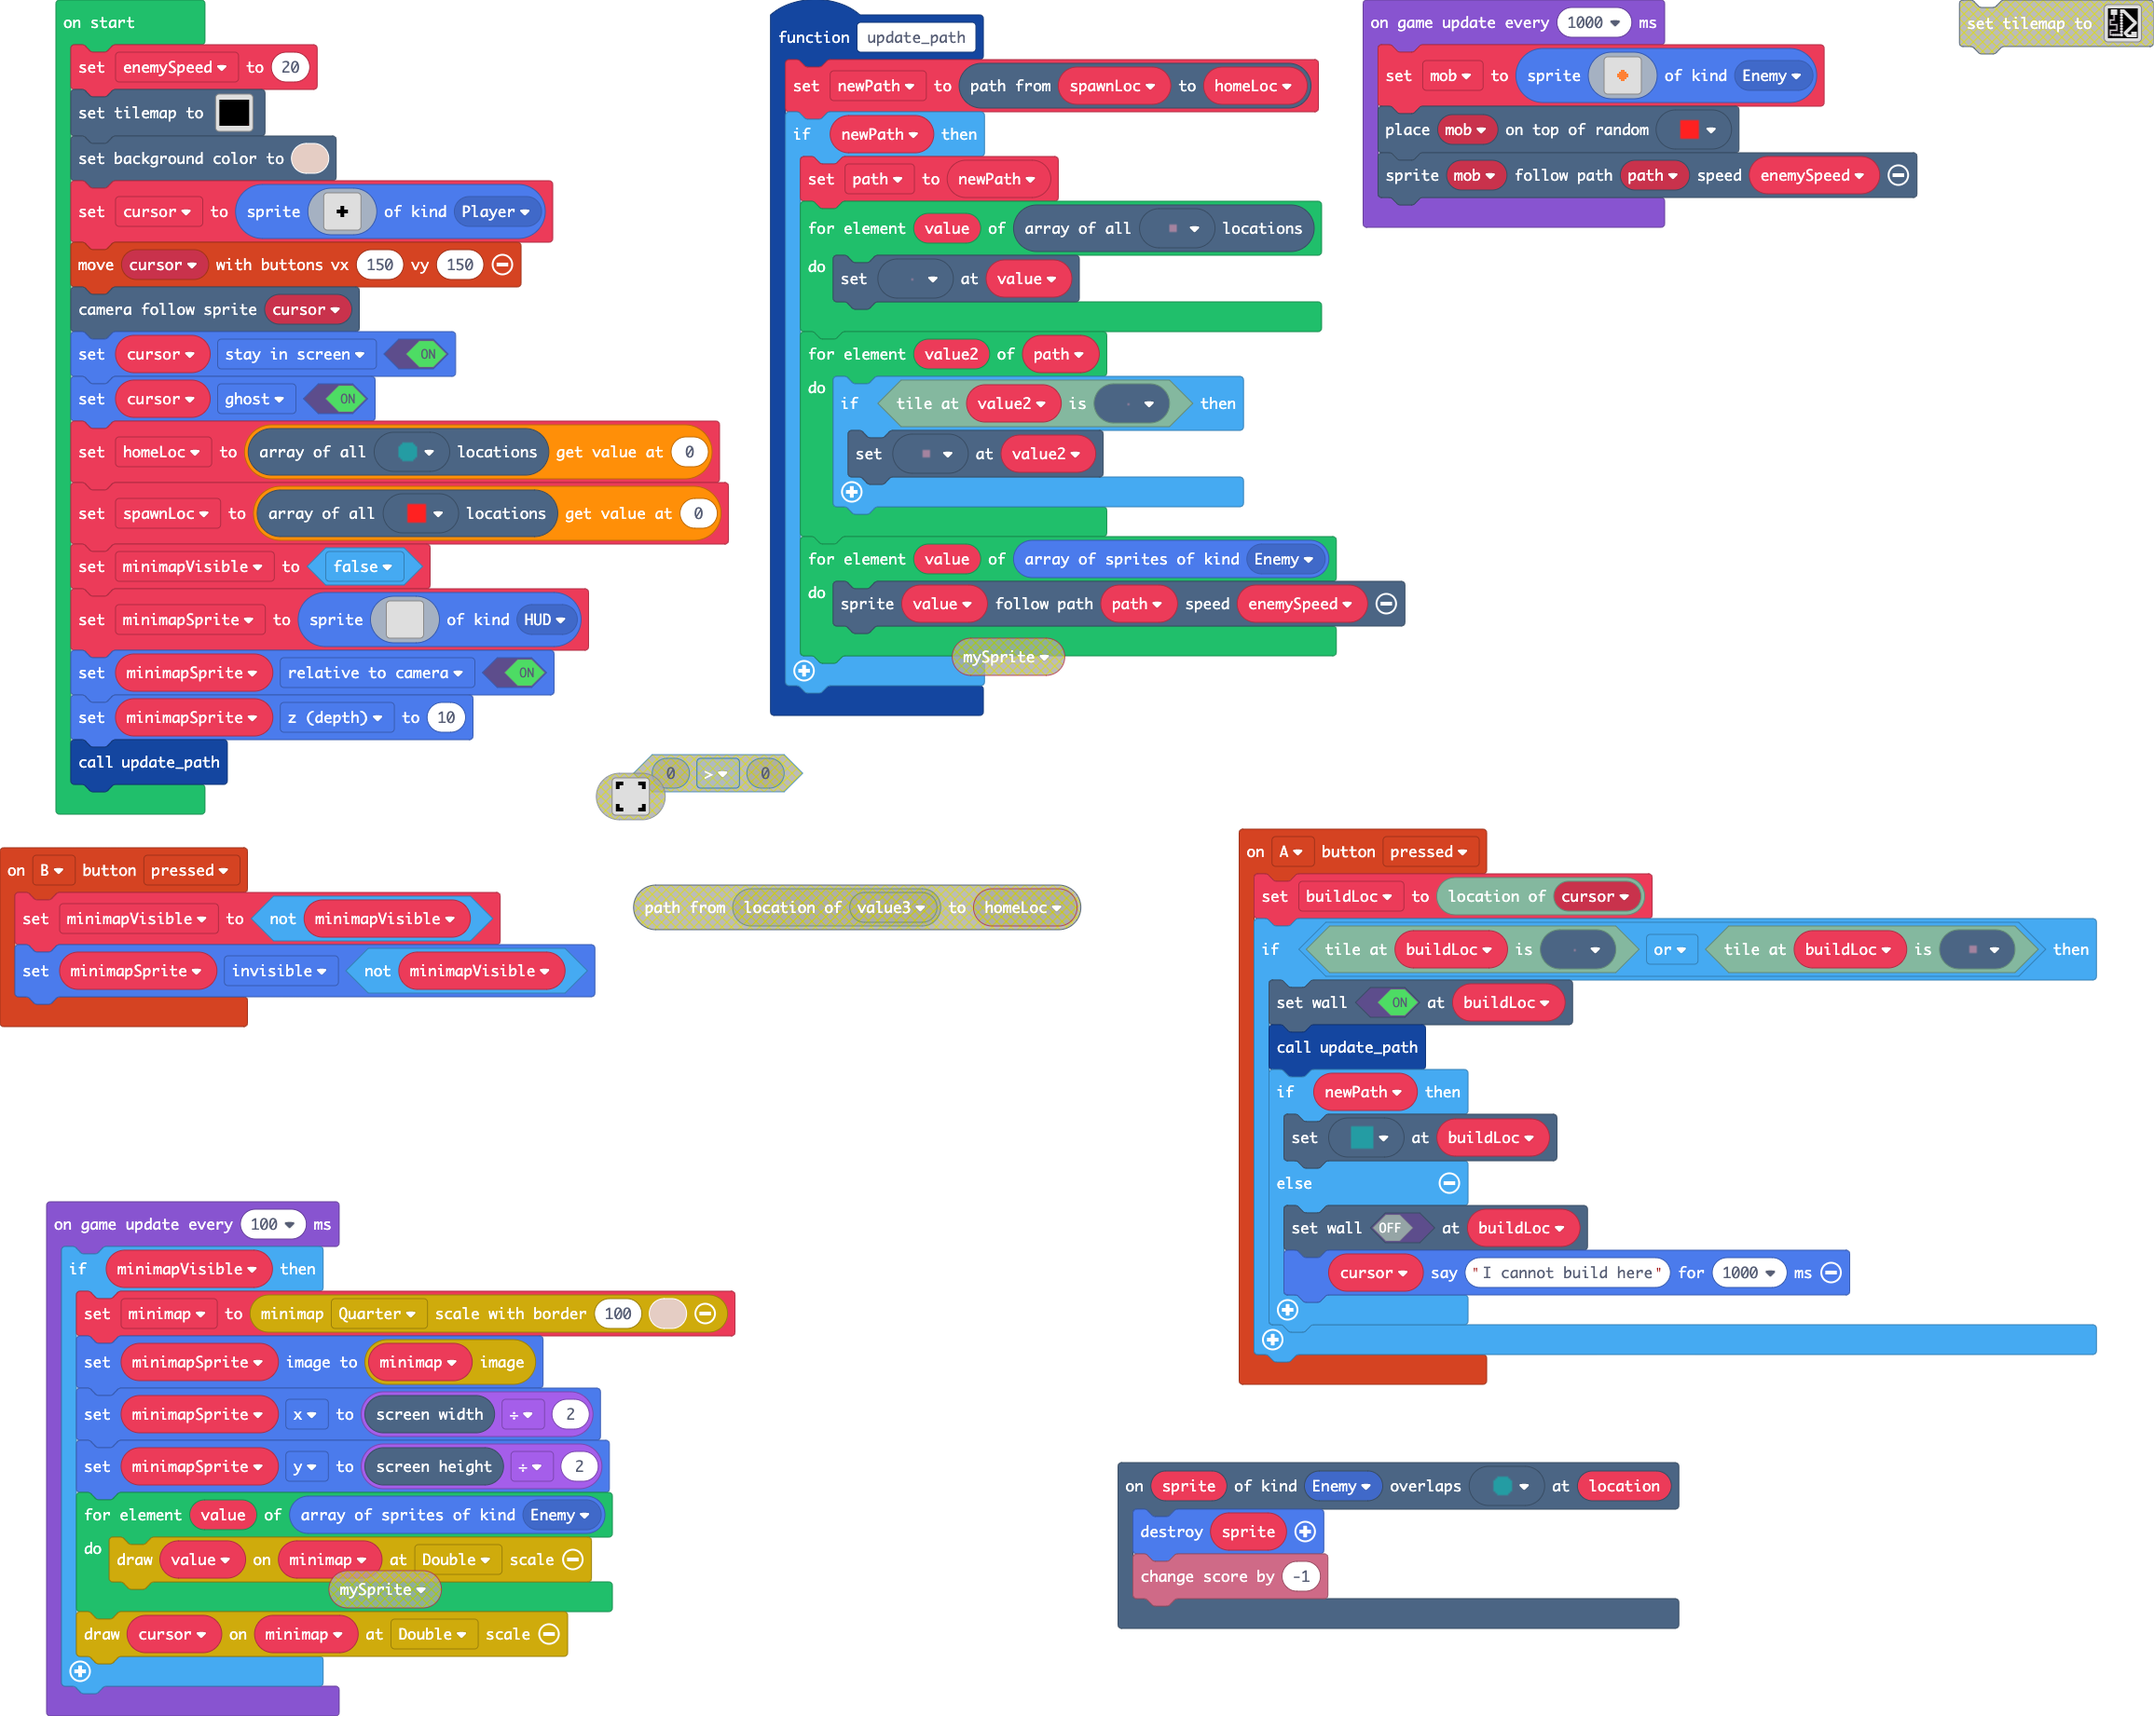
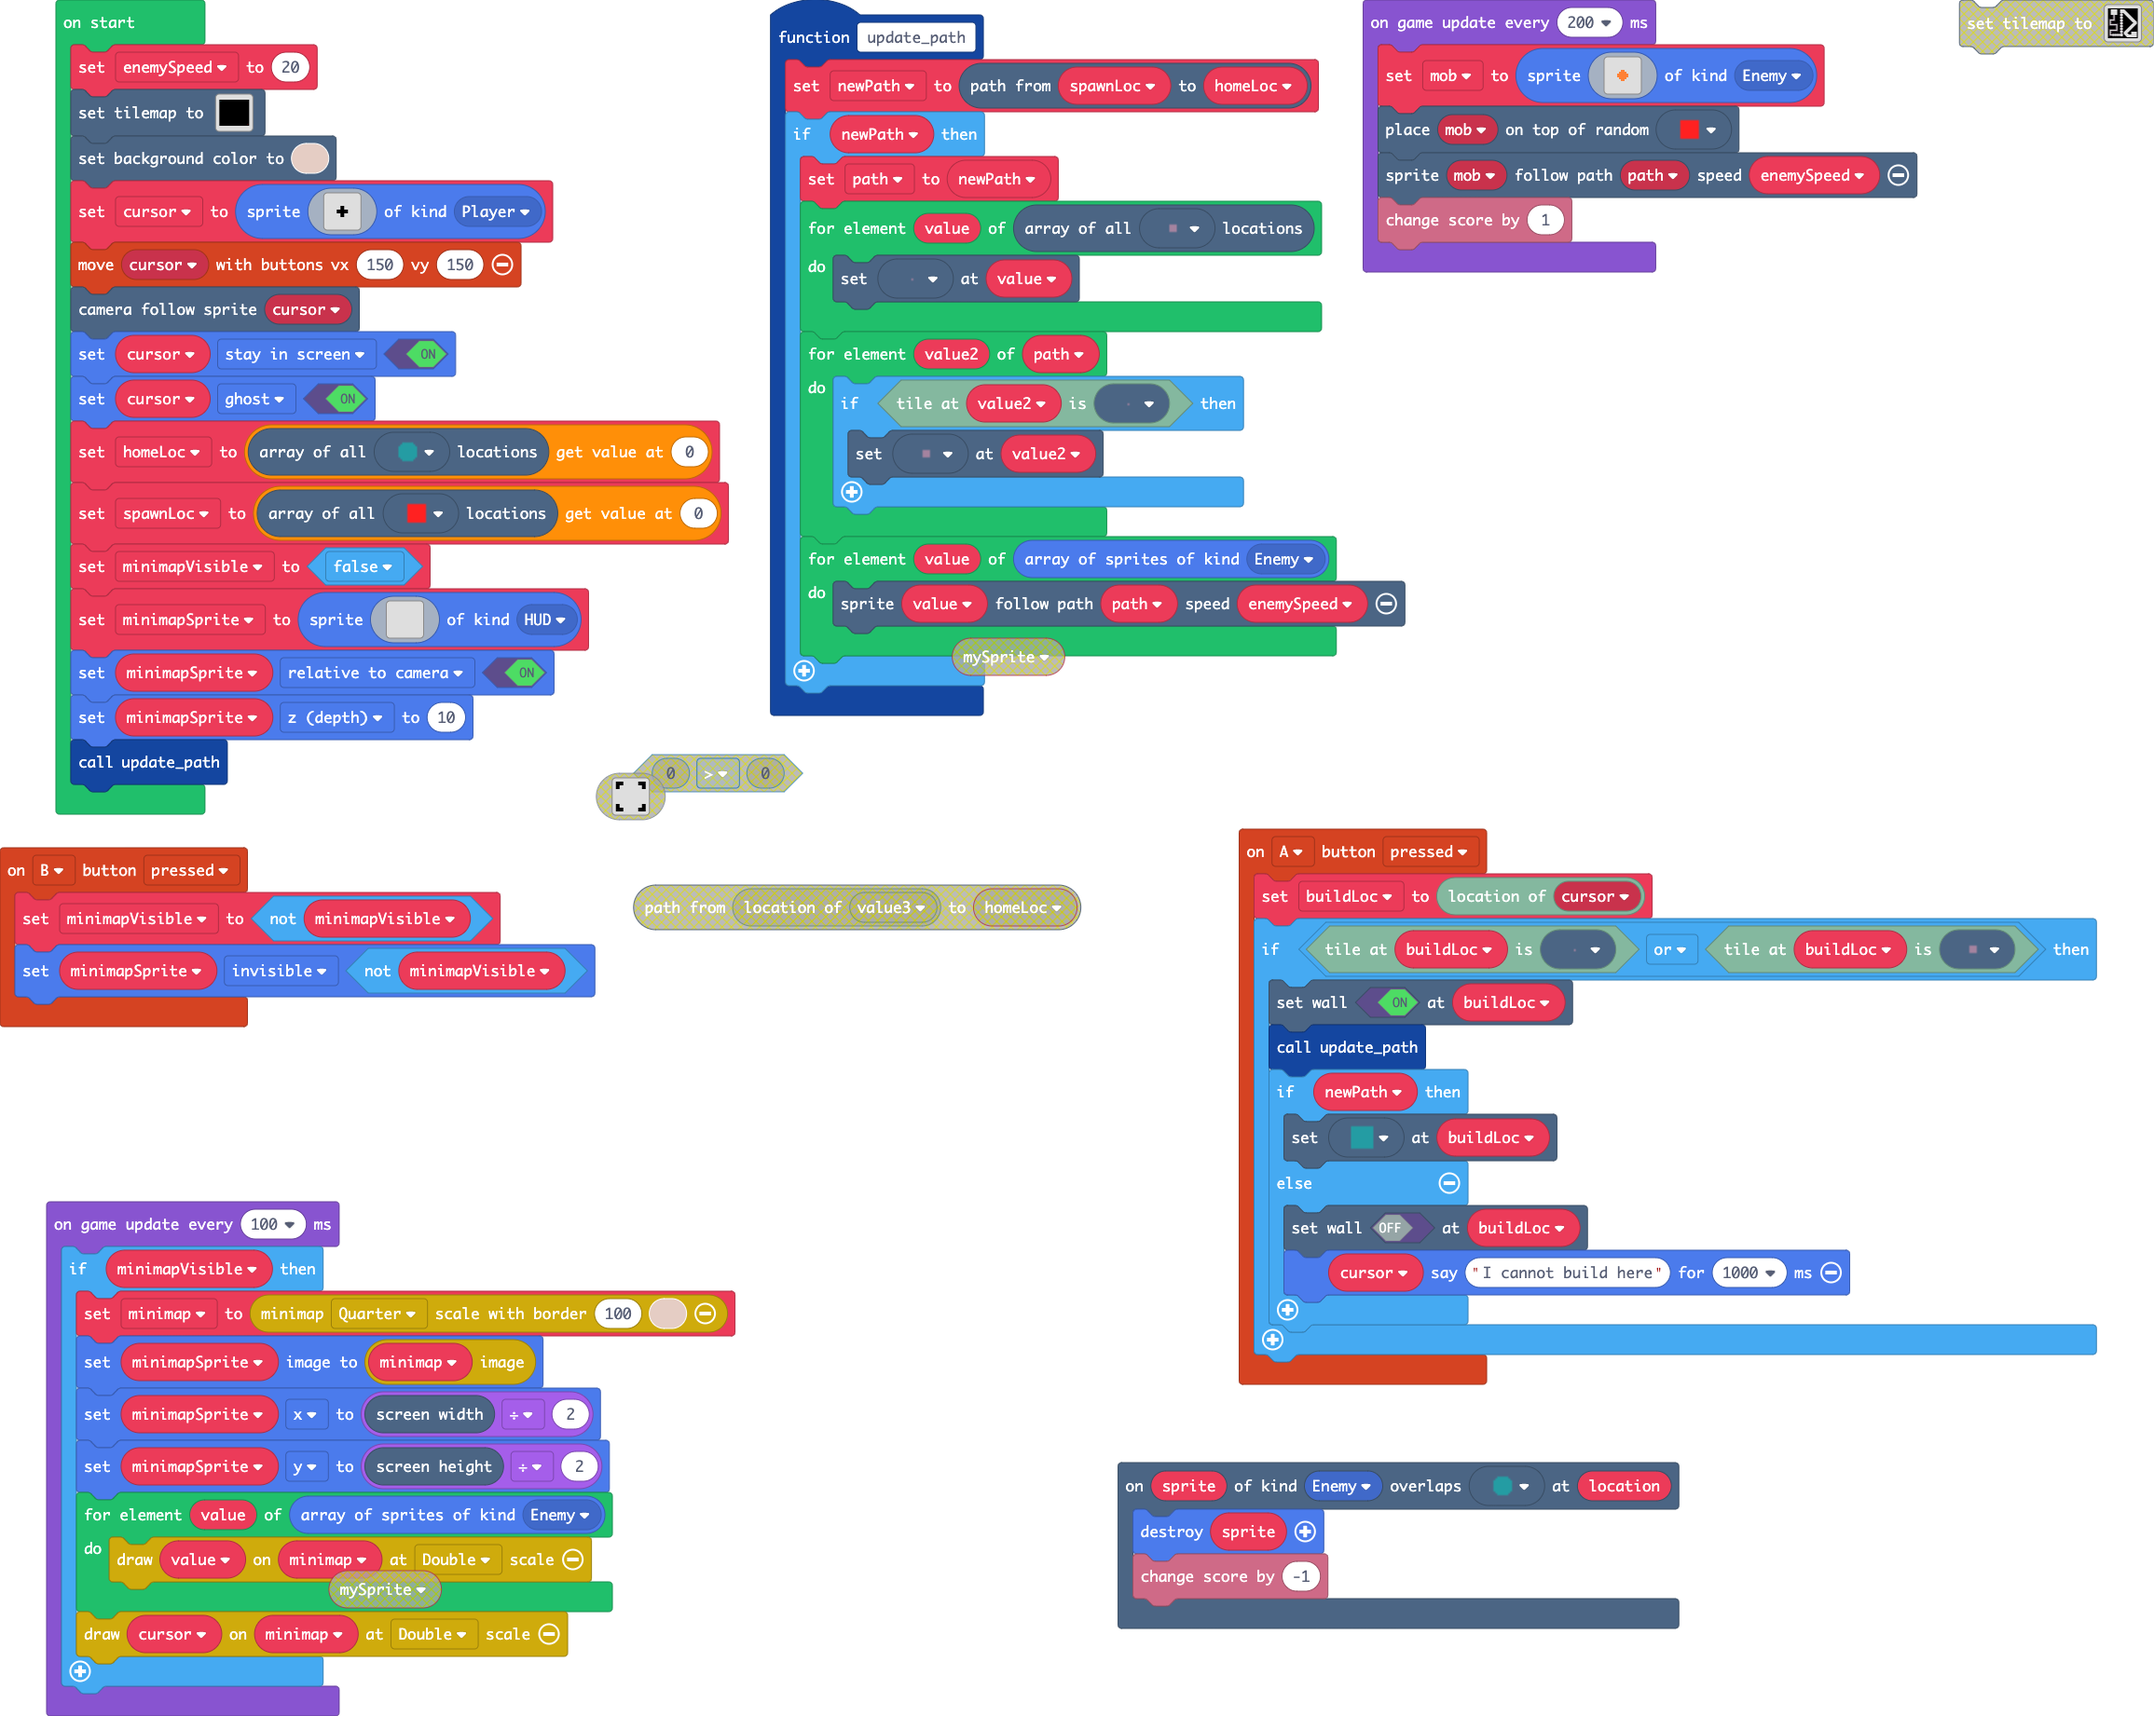
Update main.blocks, main.ts

Changed region(s): [[0.6231, 0.0928, 0.7789, 0.1857], [0.7477, 0.0, 0.7789, 0.0309]]

diff --git a/main.ts b/main.ts
@@ -337,7 +337,7 @@ game.onUpdateInterval(100, function () {
         minimap.includeSprite(minimap2, cursor, MinimapSpriteScale.Double)
     }
 })
-game.onUpdateInterval(1000, function () {
+game.onUpdateInterval(200, function () {
     mob = sprites.create(img`
 . . . . . . . . . . . . . . . . 
 . . . . . . . . . . . . . . . . 
@@ -358,4 +358,5 @@ game.onUpdateInterval(1000, function () {
 `, SpriteKind.Enemy)
     tiles.placeOnRandomTile(mob, myTiles.tile4)
     scene.followPath(mob, path, enemySpeed)
+    info.changeScoreBy(1)
 })
